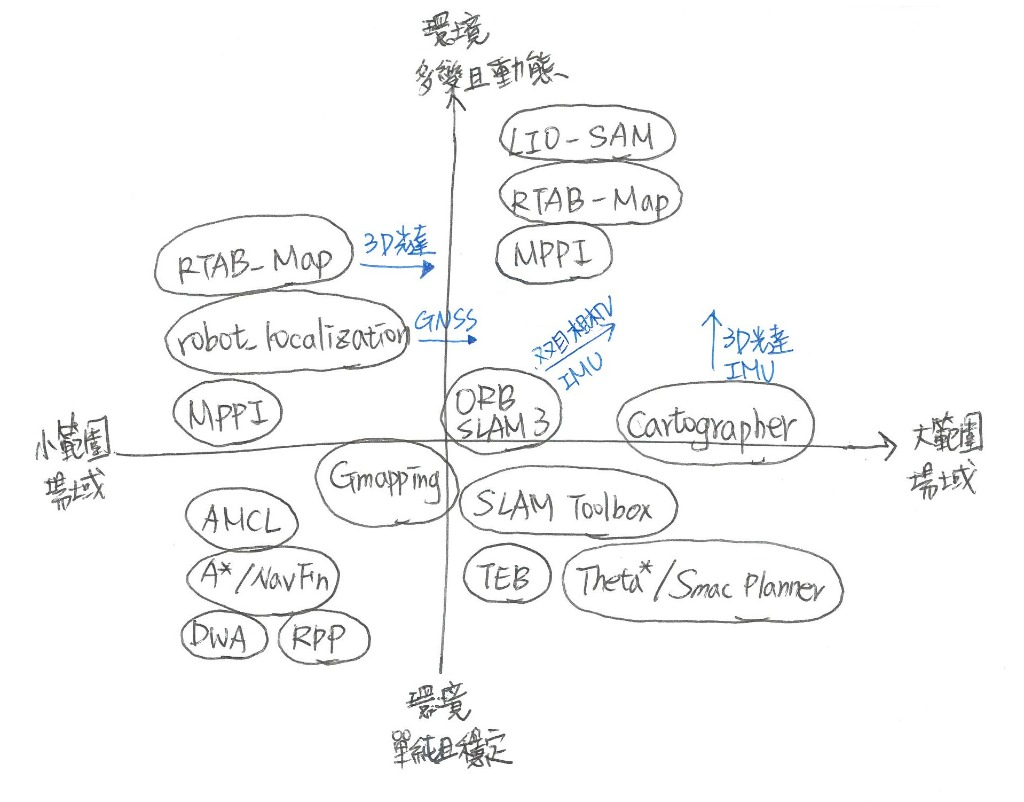
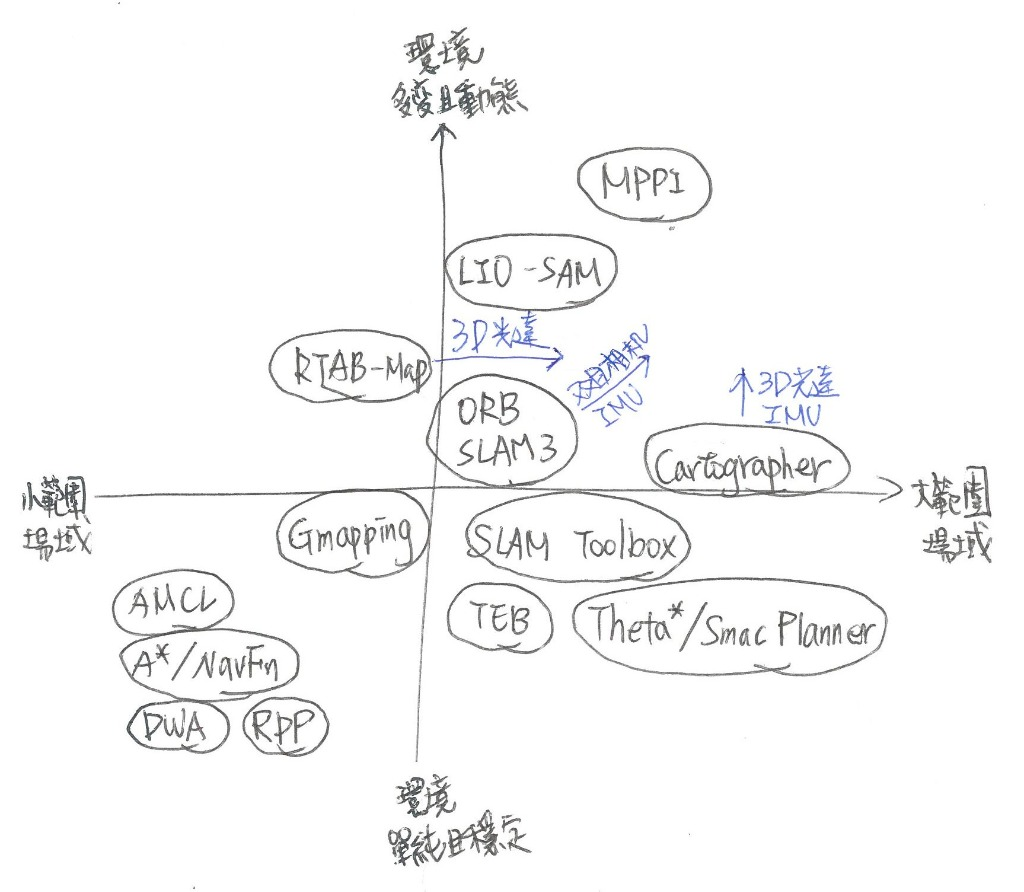
docs: 更新章節架構圖表與排版優化

Changed region(s): [[0.0, 0.0, 0.9688, 0.9663], [0.2188, 0.2494, 0.3125, 0.2805]]

diff --git a/CH3-1_What_Algorithms_Do_Robots_Use.md b/CH3-1_What_Algorithms_Do_Robots_Use.md
@@ -1,40 +1,42 @@
 # 主流演算法 (What Algorithms Do Robots Use)
 
-在智慧機器人的開發中，「感測器」負責蒐集環境與自身狀態數據，而「演算法」則是將這些龐雜數據轉換為定位、路徑規劃及控制命令等資訊，機器人自主移動中的每個階段，都依賴不同特性與架構的演算法相互配合。對開發者來說，關鍵往往不在於從頭撰寫演算法，而是精準掌握各演算法的**適用場景與既存限制**，以及對應所需的感測器硬體、輸入 Topic 和輸出 Message，本節將盤點目前機器人感知領域中最主流的演算法，協助開發者能依據實際應用需求，快速選擇合適的解決方案。
+在智慧機器人的開發中，「感測器」負責蒐集環境與自身狀態數據，而「演算法」則是將這些龐雜數據轉換為定位、路徑規劃及控制命令等資訊，機器人自主移動中的每個階段，都依賴不同特性與架構的演算法相互配合。對開發者來說，關鍵往往不在於從頭撰寫演算法，而是精準掌握各演算法的**適用場景與既存限制**，以及對應所需的感測器硬體、輸入 Topic 和輸出 Message，本節將盤點目前機器人系統中最主流的演算法，協助開發者能依據實際應用需求，快速選擇合適的解決方案。
 
 【待畫圖】架構示意如下
 <!-- ![演算法四象限](./images/algorithm_quadrant_matrix.jpg) -->
 <p align="center"><img src="./images/algorithm_quadrant_matrix.jpg" style="width:500px" /></p>
 
-## 1. 雷達建圖與定位 (LiDAR SLAM & Localization)
+## 1. 建圖 (SLAM)
 
 | 演算法 | 特點 / 優缺點 | 對接硬體與輸入 Topic (說明) | 輸出 Message |
 | :--- | :--- | :--- | :--- |
 | **Gmapping** | **說明**：基於粒子濾波器（Particle Filter）架構，是早期經典的 2D 光達建圖演算法，多用於室內小型輪式機器人（如掃地機器人）。<br><br>**優點**：<br>1. 結構簡單，計算資源消耗低<br>2. 在小範圍室內環境中，建圖精度高且具穩定性<br><br>**缺點**：<br>1. 不適合大範圍場景，累積誤差會讓地圖嚴重變形<br>2. 純光達主導，不支援 3D 建圖與 IMU 緊耦合 | • 2D / 3D 光達 ➔ `/scan` (只接收 2D 掃描數據)<br>• 編碼器 ➔ `/odom`、 `base_link`<br>•  `/tf` | • `nav_msgs/OccupancyGrid`<br>• `nav_msgs/MapMetaData`<br>• `tf2_msgs/TFMessage` |
-| **Cartographer** | **說明**：基於圖優化（Graph-based）架構，是工業界主流的 2D / 3D 光達建圖演算法，多用於工廠運行的 AGV 或 AMR 。<br><br>**優點**：<br>1. 強大閉環檢測（Loop Closure）能力，當機器人回到初始點會自動校正累積誤差<br>2. 適合大範圍與複雜的室內環境，可直接融合 IMU 數據即時校正機器人的重力方向<br><br>**缺點**：<br>1. 為了能隨時校正，計算資源消耗高<br>2. 遇到低特徵環境，容易產生誤判或建圖錯位 | • 2D 光達 ➔ `/scan` <br>• 3D 光達 ➔ `/points2` <br>• IMU ➔ `/imu`<br>• 編碼器 ➔ `/odom` (選配) | • `cartographer_ros_msgs/SubmapList`<br>• `visualization_msgs/MarkerArray`<br>• `tf2_msgs/TFMessage` |
 | **SLAM Toolbox** | **說明**：基於圖優化架構，是 ROS 2 官方預設的 2D 光達建圖演算法，被視為 Cartographer 的輕量化替代方案。<br><br>**優點**：<br>1. 跟Cartographer相比，除了計算資源較省，建圖速度也較快<br>2. 支援地圖序列化（Lifelong Mapping）及非同步建圖（Asynchronous Mapping），前者可進行地圖儲存與載入後的持續更新，後者能降低處理延遲並提升大場景建圖效率<br><br>**缺點**：<br>1. 不支援 3D 建圖<br>2. 不內建處理 IMU，需另用套件融合`/odom`後再輸入 | • 2D / 3D 光達 ➔ `/scan` (只接收 2D 掃描數據)<br>• 編碼器 ➔ `/odom`<br>• `/tf` | • `nav_msgs/msg/OccupancyGrid`<br>• `nav_msgs/msg/MapMetaData`<br>• `visualization_msgs/msg/MarkerArray`<br>• `tf2_msgs/msg/TFMessage` |
-| **LIO-SAM** | **說明**：基於光達慣性里程計（LiDAR-Inertial Odometry）架構的 3D 光達建圖演算法，多用於地形不平整的室外環境。<br><br>**優點**：<br>1. 光達與 IMU 緊耦合，在劇烈運動或顛簸狀態下仍能維持高精度定位<br>2. 透過因子圖優化（Factor Graph），建圖速度快<br><br>**缺點**：<br>1. 硬體要求高，感測器品質及參數校正皆直接影響地圖品質<br>2. 遇到狹窄、人多的場景，定位穩定性可能下降 | • 3D 光達 ➔ `/points_raw` (可接收原始 3D 點雲)<br>• IMU ➔ `/imu/data` (必須接收原始高頻率[>200Hz]及高精度[六軸或九軸]的IMU數據)<br>• GPS ➔ `/gps/fix` (選配，消除全域漂移，室內不適用) | • `nav_msgs/Odometry`<br>&nbsp;&nbsp;(`/lio_sam/mapping/odometry`)<br>• `sensor_msgs/PointCloud2`<br>&nbsp;&nbsp;(`/lio_sam/mapping/cloud_registered`)<br>• `sensor_msgs/msg/PointCloud2` |
+| **RTAB-Map** | **說明**：基於圖優化架構，結合視覺與光達的 3D 稠密建圖演算法，以記憶體管理機制聞名。<br><br>**優點**：<br>1. 支援多種感測器，包含相機、2D / 3D光達、IMU及GPS<br>2. 可同時建立三維點雲地圖與二維佔據網格地圖，並具備強大的閉環檢測與重定位能力<br><br>**缺點**：<br>1. 也因支援多種感測器，導致其設定極其複雜<br>2. 隨地圖規模增加，記憶體與運算資源需求也顯著提升 | • RGB-D 相機 ➔ `/Camera/RGBD`<br>• 2D / 3D 光達 ➔ `/LiDAR` (修正視覺深度誤差)<br>• 編碼器 ➔ `/odom`<br>• IMU ➔ `/imu` | • `nav_msgs/msg/OccupancyGrid`<br>• `sensor_msgs/msg/PointCloud2`<br>• `geometry_msgs/msg/PoseWithCovarianceStamped`<br>• `tf2_msgs/msg/TFMessage` |
 
-## 2. 視覺建圖與定位 (Visual SLAM & Localization)
-
+## 2. 建圖與定位 (SLAM & Localization)
 | 演算法 | 特點 / 優缺點 | 對接硬體與輸入 Topic (說明) | 輸出 Message |
 | :--- | :--- | :--- | :--- |
-| **ORB-SLAM3** | **說明**：基於特徵點法（Feature-based Method）的視覺 SLAM 主流演算法。<br><br>**優點**：<br>1. 以視覺為核心，相機與 IMU 緊耦合，可直接利用 IMU 數據即時優化定位<br>2. 在無人機、AR / VR 眼鏡、無 GPS 環境下的輕量化定位表現極佳（公分級）<br><br>**缺點**：<br>1. 遇到低光源、反光或低特徵環境，會直接丟失定位<br>2. 產出的地圖為稀疏點雲（Sparse Point Cloud），僅供定位無法直接導航 | • RGB 相機 ➔ `/camera/rgb/image_raw`<br>• 深度相機 ➔ `/camera/depth/image_raw`、<br>`/camera/left/image_raw`、<br>`/camera/right/image_raw`<br>• IMU ➔ `/imu` (必須接收原始高頻率[>100Hz]的IMU數據) | • `geometry_msgs/PoseStamped`<br>• `sensor_msgs/PointCloud2`<br>• `visualization_msgs/Marker`<br>• `tf2_msgs/msg/TFMessage` |
-| **RTAB-Map** | **說明**：基於圖優化架構，結合視覺與光達的 3D 稠密建圖演算法，以記憶體管理機制聞名。<br><br>**優點**：<br>1. 支援多種感測器，包含相機、2D / 3D光達、IMU及GPS<br>2. 可同時建立三維點雲地圖與二維佔據網格地圖，並具備強大的閉環檢測與重定位能力（Kidnapped Robot Problem）<br><br>**缺點**：<br>1. 也因支援多種感測器，導致其設定極其複雜<br>2. 隨地圖規模增加，記憶體與運算資源需求也顯著提升 | • RGB-D 相機 ➔ `/Camera/RGBD`<br>• 2D / 3D 光達 ➔ `/LiDAR` (修正視覺深度誤差)<br>• 編碼器 ➔ `/odom`<br>• IMU ➔ `/imu` | • `nav_msgs/msg/OccupancyGrid`<br>• `sensor_msgs/msg/PointCloud2`<br>• `geometry_msgs/msg/PoseWithCovarianceStamped`<br>• `tf2_msgs/msg/TFMessage` |
+| **Cartographer** | **說明**：基於圖優化（Graph-based）架構，是工業界主流的 2D / 3D 光達建圖演算法，多用於工廠運行的 AGV 或 AMR 。<br><br>**優點**：<br>1. 強大閉環檢測（Loop Closure）能力，當機器人回到初始點會自動校正累積誤差<br>2. 適合大範圍與複雜的室內環境，可直接融合 IMU 數據即時校正機器人的重力方向<br><br>**缺點**：<br>1. 為了能隨時校正，計算資源消耗高<br>2. 遇到低特徵環境，容易產生誤判或建圖錯位 | • 2D 光達 ➔ `/scan` <br>• 3D 光達 ➔ `/points2` <br>• IMU ➔ `/imu`<br>• 編碼器 ➔ `/odom` (選配) | • `cartographer_ros_msgs/SubmapList`<br>• `visualization_msgs/MarkerArray`<br>• `tf2_msgs/TFMessage` |
+| **LIO-SAM** | **說明**：基於光達慣性里程計（LiDAR-Inertial Odometry）架構的 3D 光達建圖演算法，多用於地形不平整的室外環境。<br><br>**優點**：<br>1. 光達與 IMU 緊耦合，在劇烈運動或顛簸狀態下仍能維持高精度定位<br>2. 透過因子圖優化（Factor Graph），建圖速度快<br><br>**缺點**：<br>1. 硬體要求高，感測器品質及參數校正皆直接影響地圖品質<br>2. 遇到狹窄、人多的場景，定位穩定性可能下降 | • 3D 光達 ➔ `/points_raw` (可接收原始 3D 點雲)<br>• IMU ➔ `/imu/data` (必須接收原始高頻率[>200Hz]及高精度[六軸或九軸]的IMU數據)<br>• GPS ➔ `/gps/fix` (選配，消除全域漂移，室內不適用) | • `nav_msgs/Odometry`<br>&nbsp;&nbsp;(`/lio_sam/mapping/odometry`)<br>• `sensor_msgs/PointCloud2`<br>&nbsp;&nbsp;(`/lio_sam/mapping/cloud_registered`)<br>• `sensor_msgs/msg/PointCloud2` |
+| **ORB-SLAM3** | **說明**：基於特徵點法（Feature-based Method）的視覺 SLAM 主流演算法。<br><br>**優點**：<br>1. 以視覺為核心，相機與 IMU 緊耦合，可直接利用 IMU 數據即時優化定位<br>2. 在無人機、AR / VR 眼鏡、無 GPS 環境下的輕量化定位表現極佳（公分級）<br><br>**缺點**：<br>1. 遇到低光源、反光或低特徵環境，會直接丟失定位<br>2. 非支援所有相機，且產出的地圖為稀疏點雲（Sparse Point Cloud），僅供定位無法直接導航 | • RGB 相機 ➔ `/camera/rgb/image_raw`<br>• 深度相機 ➔ `/camera/depth/image_raw`、<br>`/camera/left/image_raw`、<br>`/camera/right/image_raw`<br>• IMU ➔ `/imu` (必須接收原始高頻率[>100Hz]的IMU數據) | • `geometry_msgs/PoseStamped`<br>• `sensor_msgs/PointCloud2`<br>• `visualization_msgs/Marker`<br>• `tf2_msgs/msg/TFMessage` |
 
 ## 3. 定位 (Localization)
 
 | 演算法 | 特點 / 優缺點 | 對接硬體與輸入 Topic (說明) | 輸出 Message |
 | :--- | :--- | :--- | :--- |
 | **AMCL**<br>*(Adaptive Monte Carlo Localization)* | **說明**：基於粒子濾波器架構，是 MCL 自適應版本，也是 ROS 導航內建的經典定位法。<br><br>**優點**：<br>1. 在地圖中灑出大量「可能位置的粒子」，透過光達掃描與地圖的比對，逐步收斂到唯一正確的位置<br>2. 相較 SLAM 演算法，計算資源消耗低，但非常依賴環境特徵<br><br>**缺點**：<br>1. 必須在有現成地圖的情況下才能運作<br>2. 若環境變動太大時（例如預設的地圖是空的，但現實中被貨物堆滿）就容易失準 | • `/map` (可自建也可匯入的靜態黑白地圖)<br>• 2D 光達 ➔ `/scan`<br>• `/tf` | • `geometry_msgs/PoseWithCovarianceStamped`<br>• `geometry_msgs/PoseArray`<br>• `tf2_msgs/TFMessage` |
-| **robot_localization** | **說明**：基於卡爾曼濾波（Kalman Filter）架構的狀態估計（State Estimation）套件，負責融合多種感測器資訊並輸出機器人姿態與里程計資訊（`/odom`）。<br><br>**優點**：<br>1. 支援輪速計、IMU、GPS、視覺里程計等多種感測器<br>2. 可降低單一感測器的雜訊與漂移，提高定位穩定性<br><br>**缺點**：<br>1. 僅負責感測器融合與狀態估計，不具備建圖功能<br>2. 融合效果高度依賴感測器品質與參數設定 | • 編碼器 ➔ `/odom/wheel`<br>• IMU ➔ `/imu/data`<br>• GPS ➔ `/gps/fix` (選配，改善全域漂移，室內不適用) | • `geometry_msgs/msg/TransformStamped` |
 
-## 4. 導航與避障 (Navigation & Obstacle Avoidance)
+## 4. 規劃 (Planning)
 
 | 演算法 | 特點 / 優缺點 | 對接硬體與輸入 Topic (說明) | 輸出 Message |
 | :--- | :--- | :--- | :--- |
 | **A* (A-Star) / NavFn**<br>*(全域規劃)* | **說明**：ROS 2 (Nav2) 常用的全域規劃器，屬啟發式圖形搜尋（Heuristic Search）方法。<br><br>**優點**：<br>1. 將地圖視為網格，以幾何距離加上預估成本，在毫秒內找出最短路徑<br>2. 邏輯簡單、執行穩定<br><br>**缺點**：<br>1. 網格規劃使路線較生硬（直角多）<br>2. 地圖太大時，搜尋會變慢 | • `/goal_pose`<br>• `/global_costmap/costmap`<br>• `/tf` | • `nav_msgs/msg/Path` |
 | **Theta* / Smac Planner**<br>*(全域規劃)* | **說明**：ROS 2 (Nav2) 常用的全域規劃器。<br><br>**優點**：<br>1. 打破網格限制，允許機器人規劃出任意角度的平滑斜線，更符合實際物理車輛的行駛軌跡<br>2. 產出的路徑較為平順，可減少額外平滑處理需求<br><br>**缺點**：<br>1. 運算複雜度比傳統 A* 高，並需要較好的處理器<br>2. 在障礙物密集或高解析度地圖下，規劃時間可能增加 | • `/goal_pose`<br>• `/global_costmap/costmap`<br>• `/tf` | • `nav_msgs/msg/Path` |
+
+## 5. 控制 (Control)
+| 演算法 | 特點 / 優缺點 | 對接硬體與輸入 Topic (說明) | 輸出 Message |
+| :--- | :--- | :--- | :--- |
 | **DWA**<br>*(Dynamic Window Approach)*<br>*(局部控制)* | **說明**：傳統 2D 避障與局部跟隨的速度空間採樣演算法。<br><br>**優點**：<br>1. 在機器人可執行的速度與轉速範圍內進行「模擬試車」，捨棄會撞到障礙物的速度組合，挑選出最安全且最接近全域路徑的速度<br>2. 計算量低且反應快速，適合室內差速驅動機器人<br><br>**缺點**：<br>1. 易陷入局部最優解（例如在狹窄通道卡死）<br>2. 不適合車身很長，並像汽車一樣有迴轉半徑限制的機器人 | • `/local_costmap/costmap`<br>• `/plan`<br>• 編碼器 ➔ `/odom`<br>• `/tf` | • `geometry_msgs/msg/Twist` |
 | **RPP**<br>*(Regulated Pure Pursuit)*<br>*(局部控制)* | **說明**：基於幾何追隨的演算法，多用於工業級 AGV、大型搬運車。<br><br>**優點**：<br>1. 極度穩定且計算量極低，在接近轉角或障礙物時，會自動調速不易甩尾<br>2. 適合讓機器人嚴格沿著既定軌道（像是地上畫的線或虛擬軌道）走的場景<br><br>**缺點**：<br>1. 不具備主動繞障能力，高度依賴全域路徑引導<br>2. 若全域路徑品質不佳或環境變化劇烈，追蹤效果容易受到影響 | • `/plan`<br>• 編碼器 ➔ `/odom`<br>• `/tf` | • `geometry_msgs/msg/Twist` |
 | **TEB**<br>*(Timed Elastic Band)*<br>*(局部控制)* | **說明**：彈性帶式時空（時間與空間）優化演算法，高性能避障演算法之一。<br><br>**優點**：<br>1. 將路徑視為可伸縮的彈性帶，透過最佳化方式同時調整路徑形狀與移動速度，以產生平順且可行的局部軌跡（Local Trajectory）<br>2. 支援非圓形車體（如長方形 AGV 或 AMR），能實現流暢的前進、後退與繞行<br><br>**缺點**：<br>1. 演算法較複雜，在動態障礙物密集的環境下可能產生較高 CPU 負載<br>2. 可能出現路徑震盪或反覆切換繞行策略的狀況 | • `/plan`<br>• `/local_costmap/costmap`<br>• 編碼器 ➔ `/odom`<br>• `/tf` | • `geometry_msgs/msg/Twist` |

diff --git a/CH2-3_Getting_Space_and_Time_in_Sync.md b/CH2-3_Getting_Space_and_Time_in_Sync.md
@@ -63,6 +63,9 @@
 1. **系統時間（System Time）**：由作業系統的系統時鐘提供，通常作為系統目前的標準時間，並可對應至 UTC 時間，而系統時間是可以因人工校時向前或向後調整的。
 2. **ROS 時間（ROS Time）**：ROS 2 提供的時間機制，預設跟隨系統時間，也可切換為其他時間來源，例如當節點的`use_sim_time`設為`true`時，ROS Time 會改成`/clock` Topic 提供時間，以此在像是 Gazebo 的模擬器中模擬時間流逝。
 
+<!-- ![時間同步機制](./images/time_synchronization_architecture.jpg) -->
+<p align="center"><img src="./images/time_synchronization_architecture.jpg" style="width:600px" /></p>
+
 ### 2.1. 單一主機且應用相對單純
 
 若在系統建置時，就已確定所有 ROS 2 節點都運行在同一台主機，且共用同一個系統時鐘，就不需要額外建立跨裝置的時間同步機制，後續可依 Message 中的`header.stamp`作為時間配對依據，再搭配`message_filters`套件（`ExactTime`或`ApproximateTime`）完成資料對齊。
@@ -78,11 +81,11 @@
 
 在 DC 建立一致的時間基準後， EtherCAT Master 還可進一步設定 **SYNC 同步事件**，依據預先設定的時間點，觸發 EtherCAT Slave 的控制執行或資料取樣，簡單來說就是為其調鬧鐘，當鬧鐘一響時即同步執行指定動作，例如，人型機器人的多個關節模組就可利用 SYNC 同步執行馬達控制，在精確對齊的時間點進行一樣的動作。
 
-另外，為提升系統整體控制的即時性與穩定性，通常會再加裝專用的 **EtherCAT 運動控制（軸）卡**，從硬體層協助 Master 執行通訊與即時控制，有效降低可能因軟體層處理問題所帶來的延遲；然而，由於 EtherCAT DC 僅針對 EtherCAT 網路內裝置做同步，若系統中仍有未加入 EtherCAT 網路的感測器（例如相機或光達），就需透過其他同步方式，使其與 EtherCAT 控制系統維持一致的時間基準，常見的方式有硬體觸發及 PPS 脈衝同步兩種。
+另外，為提升系統整體控制的即時性與穩定性，通常會再加裝專用的 **EtherCAT 運動控制（軸）卡**，從硬體層協助 Master 執行通訊與即時控制，有效降低可能因軟體層處理問題所帶來的延遲；但由於 DC 僅針對 EtherCAT 網路內裝置做同步，若系統中仍有未加入 EtherCAT 網路的感測器（例如相機或光達），就需透過其他同步方式，使其與 EtherCAT 控制系統維持一致的時間基準，目前常見的方式有硬體觸發及 PPS 脈衝同步兩種。
 
 * **硬體觸發 (Hardware Trigger)**：由主控器（如 MCU、FPGA 或其他控制器）輸出觸發訊號，直接觸發相機曝光、光達掃描或其他感測器開始取樣，使多個感測器於同一物理時刻產生資料，此方式同步的是資料擷取時刻，而非各裝置的內部時鐘，但可有效降低感測器之間因曝光、掃描或取樣時機不同所造成的時間誤差。
 
-* **PPS 脈衝同步 (Pulse Per Second)**：由 GNSS 接收器每秒輸出一個高精度脈衝，各感測器收到 PPS 後即可校正自身的內部時鐘，同時搭配 NMEA 0183 通訊協定內的資料格式傳送 UTC 時間，使 EtherCAT 控制系統知道每個 PPS 脈衝所代表的實際時間，但要留意 PPS 對應的是 UTC 時間，若 EtherCAT 側維持的時間基準並非對應 UTC 時間，那就會出現兩邊不一致的問題。
+* **PPS 脈衝同步 (Pulse Per Second)**：由 GNSS 接收器每秒輸出一個高精度脈衝，各感測器收到 PPS 後即可校正自身的內部時鐘，同時搭配 NMEA 0183 通訊協定內的資料格式傳送 UTC 時間，使 EtherCAT Master 能確認每個 PPS 脈衝所代表的實際時間，但要留意 PPS 對應的是 UTC 時間，若 EtherCAT Master 維持的時間基準並非 UTC 時間，那就會出現兩邊不一致的問題。
 
 ### 2.3. 多台主機或多機協作
 
@@ -92,6 +95,6 @@
 
 * **PTP**：透過 Ethernet 交換時間同步封包，並以主時鐘（Grandmaster Clock）作為共同的時間基準，持續校正各裝置的內部時鐘；PTP 本質上是由 IEEE 1588 定義的網路時間同步協定，可在軟體層以軟體時間戳（Software Timestamping）進行同步；但若硬體本身支援硬體時間戳（Hardware Timestamp），或藉由加裝時間同步卡（Time Synchronization Card）提供硬體時間戳功能，則能將同步精度提升到微秒甚至亞微秒等級，因此廣泛應用於大型的多機協作或分散式系統。
 
-若想在高精度時間同步之外，進一步要求資料能在可預期的時間內完成傳輸，則可採用時效性網路（Time-Sensitive Networking，簡稱 TSN），這也是近年來工業級時間同步的主流，它一樣建立於 Ethernet 之上，先透過 PTP 建立共同時間，再藉由流量排程與傳輸優先權等機制，提供低延遲、高可靠性與確定性的資料傳輸；而實際建置 TSN 時，會需要搭配網路交換器（TSN Switch），以確保重要的控制封包能依排程傳輸，故歸類為硬體層時間同步。
+若想在高精度時間同步之外，進一步要求資料能在可預期的時間內完成傳輸，則可採用**時效性網路（Time-Sensitive Networking，簡稱 TSN）**，這也是近年來工業級時間同步的主流，它一樣建立於 Ethernet 之上，先透過 PTP 建立共同時間，再藉由流量排程與傳輸優先權等機制，提供低延遲、高可靠性與確定性的資料傳輸；而實際建置 TSN 時，會需要搭配網路交換器（TSN Switch），以確保重要的控制封包能依排程傳輸，故歸類為硬體層時間同步。
 
 以上述方法進行時間同步處理，已能讓大多數機器人系統滿足多感測器資料融合需求；然而，若應用需求對精度要求極高，想盡可能補償感測器因曝光或傳輸等延遲所造成的固定時間偏移（Time Offset），則可利用 `Kalibr`、`LI-Calib` 等工具進行時間外參校正，將時間偏移與空間外參一併估測，以更進一步提升感測器融合精度，不過，此類校正需要大量資料與穩定環境，且其適用性會受到感測器特性的限制，因此目前僅多應用於學術研究或單一高精度定位，在一般機器人系統整合中並非必要流程。

diff --git a/CH2-2_Integrating_Components_with_ROS_2.md b/CH2-2_Integrating_Components_with_ROS_2.md
@@ -1,3 +1,103 @@
 # ROS 2 零組件整合 (Integrating Components with ROS 2)
 
-確認零組件 ROS 2 支援 → 使用既有 Package → 若無 Package 則自行建立
+繼硬體介面與通訊協定之後，下一步則需確認該零組件是否已有原廠或社群提供、可支援 ROS 2 的套件（Package），若已有可用的 ROS 2 套件，就可直接安裝並依其介面進行整合，若無現成套件，則需依實際應用需求自行建立 ROS 2 套件，以將資料輸入、控制方式或通訊流程封裝為 ROS 2 可使用的節點；由於完整套件需遵循特定的目錄結構與設定規範，才能由 colcon 工具正確辨識、編譯與安裝，因此本節將以 Python 開發的 RTSP 影像串流應用為例，逐步說明 ROS 2 套件的建立流程。
+
+### 步驟一：建立放置套件目錄
+
+確定工作空間架構，標準 ROS 2 工作空間架構：
+```text
+~/ros2_ws/src/ipcam/
+├── ipcam/                     # Python 模組資料夾（名稱需與套件同名）
+│   ├── __init__.py            # 標記該目錄為可匯入的 Python 模組
+│   └── rtsp_camera_node.py    # RTSP 攝影機主節點程式碼
+├── resource/
+│   └── ipcam                  # ament 索引標記檔案
+├── package.xml                # ROS 2 套件元資料定義檔（依賴關係、維護者資訊）
+├── setup.py                   # Python 建置與命令進入點（console_scripts）設定檔
+└── setup.cfg                   # 指定可執行檔安裝路徑設定
+```
+
+若為全新套件，可先建立工作空間並將 `ipcam` 套件放入 `src` 目錄：
+
+```bash
+# 建立工作空間結構
+mkdir -p ~/ros2_ws/src
+
+# 將 ipcam 套件專案放置於 ~/ros2_ws/src/ipcam
+```
+
+確認節點檔案位於 `~/ros2_ws/src/ipcam/ipcam/rtsp_camera_node.py`，並給予執行權限：
+
+```bash
+chmod +x ~/ros2_ws/src/ipcam/ipcam/rtsp_camera_node.py
+```
+
+### 步驟二：設定進入點
+
+定義 console_scripts，開啟 `~/ros2_ws/src/ipcam/setup.py`，確認 `entry_points` 欄位已設定 `console_scripts`，讓 ROS 2 能找到執行檔：
+
+```python
+from setuptools import setup
+
+package_name = 'ipcam'
+
+setup(
+    name=package_name,
+    version='0.0.0',
+    packages=[package_name],
+    data_files=[
+        ('share/ament_index/resource_index/packages', ['resource/' + package_name]),
+        ('share/' + package_name, ['package.xml']),
+    ],
+    install_requires=['setuptools'],
+    zip_safe=True,
+    maintainer='weipo',
+    maintainer_email='weipo@todo.todo',
+    description='IP Camera ROS2 package',
+    license='TODO: License declaration',
+    tests_require=['pytest'],
+    entry_points={
+        'console_scripts': [
+            # 格式：'可執行指令名稱 = 套件名稱.腳本檔名:主函數名稱'
+            'rtsp_camera_node = ipcam.rtsp_camera_node:main',
+        ],
+    },
+)
+```
+
+### 步驟三：使用 colcon 編譯套件
+
+切換至工作空間根目錄並進行指定套件編譯：
+
+```bash
+cd ~/ros2_ws
+colcon build --packages-select ipcam
+```
+
+> **提示**：若開發過程中僅修改 Python 程式碼，可改用 `colcon build --symlink-install --packages-select ipcam`，避免每次修改都需要重新 build。
+
+### 步驟四：載入環境變數與啟動節點
+
+開啟終端機，載入編譯後的環境設定並啟動 RTSP 攝影機節點：
+
+```bash
+cd ~/ros2_ws
+source install/setup.bash
+ros2 run ipcam rtsp_camera_node
+```
+
+> **預設串流來源位址**：`rtsp://admin:a-12345678@192.168.60.97:554/unicast/c1/s1/live`
+
+### 步驟五：啟動 RViz2 進行視覺化監控
+
+影像訂閱確認，開啟另一個新的終端機視窗，載入環境設定後啟動 RViz2：
+
+```bash
+source install/setup.bash
+rviz2
+```
+
+**RViz2 畫面設定步驟：**
+1. 將左側全域設定的 `Fixed Frame` 改為 `map` 或 `camera_link`。
+2. 點擊左下角的 `Add` 按鈕，選擇 `Image` 顯示模組。
+3. 將新增的 `Image` 模組下的 Topic 設定訂閱至 `/camera/ipc/image_raw`，即可看到 RTSP 即時傳輸畫面。

diff --git a/CH0-0_Preface.md b/CH0-0_Preface.md
@@ -17,7 +17,7 @@
 聚焦零組件與 ROS 2 的軟硬體工程對接流程，由板級與系統級的硬體介面切入，透過六種常用的通訊協定之梳理，以此釐清底層資料傳輸機制，接續介紹 ROS 2 Package，協助開發者在原廠未提供套件時自行建置，最後探討資料融合前的關鍵技術，涵蓋機器人描述檔（URDF）、運動學模型、外參校正與手眼協調在內的空間建立，以及軟硬體時間同步機制。
 
 ### **第三章 趨勢 Trends**
-著眼智慧機器人的技術演進，從現行主流的概率機器人學出發，盤點代表性演算法及其適用場景與 Topic/Message 格式，進而邁向端到端學習式的開發架構，談主要且開源的 VLA 模型、LeRobot 資料轉接生態系，以及未來混合式 AI 帶來的新挑戰，最後面向歐美市場，解析歐盟 CRA 與美國 FCC 禁令，協助產業提前因應合規要求與供應鏈布局衝擊。
+著眼智慧機器人的技術演進，從現行主流的概率機器人學出發，盤點代表性演算法及其適用場景與 Topic/Message 格式，進而邁向端到端學習式的開發架構，談主要且開源的 VLA 模型、LeRobot 資料轉接生態系，以及未來混合式 AI 帶來的新挑戰；最後面向歐美市場，解析歐盟 CRA 與美國 FCC 禁令，協助產業提前因應合規要求與供應鏈布局衝擊。
 
 ---
 

diff --git a/README.md b/README.md
@@ -17,9 +17,9 @@ Foundation · Integration · Trends
 | [CH 1-2. 主流開發框架](CH1-2_Why_use_ROS_2_for_robot_development.md) | v2 | 7/26  | 已完成 |
 | [CH 1-3. 感知工程規範](CH1-3_ROS_2_engineering_standards_for_sensor_fusion.md) | v2 | 7/26  | 補產品 |
 | [CH 2-1. 資料傳輸機制](CH2-1_How_Data_Transmission_Works.md) | v2 | 9/4 | 已完成 |
-| [CH 2-2. ROS 2 零組件整合](CH2-2_Integrating_Components_with_ROS_2.md) | v1 | 9/5 | 待 review |
+| [CH 2-2. ROS 2 零組件整合](CH2-2_Integrating_Components_with_ROS_2.md) | v1 | 9/4 | 待完成 |
 | [CH 2-3. 座標與時間同步](CH2-3_Getting_Space_and_Time_in_Sync.md) | v2 | 9/4 | 已完成 |
-| [CH 3-1. 主流演算法](CH3-1_What_Algorithms_Do_Robots_Use.md) | v2 | 9/5 | 待 review |
+| [CH 3-1. 主流演算法](CH3-1_What_Algorithms_Do_Robots_Use.md) | v2 | 9/4 | 待 review |
 | [CH 3-2. 機器人基礎模型](CH3-2_Foundation_Models_for_Robotics.md) | v1 | 9/4 | 待 review |
 | [CH 3-3. 市場合規要求](CH3-3_Market_Compliance_Requirements.md) | v1 | 9/4 | 待 review |
 
@@ -43,4 +43,4 @@ Foundation · Integration · Trends
 - **提供畫面截圖**：將需要調整或有誤的畫面截圖，並標註您的建議後提供。
 
 ---
-*最後更新日期：2026-09-05*
+*最後更新日期：2026-09-04*

diff --git a/CH2-1_How_Data_Transmission_Works.md b/CH2-1_How_Data_Transmission_Works.md
@@ -8,7 +8,7 @@
 
 【待畫圖】架構示意如下
 <!-- ![介面與協定](./images/data_transmission_architecture.jpg) -->
-<p align="center"><img src="./images/data_transmission_architecture.jpg" style="width:600px" ></p>
+<p align="center"><img src="./images/data_transmission_architecture.jpg" style="width:600px" /></p>
 
 ## 1. 硬體介面（Hardware Interfaces）
 
